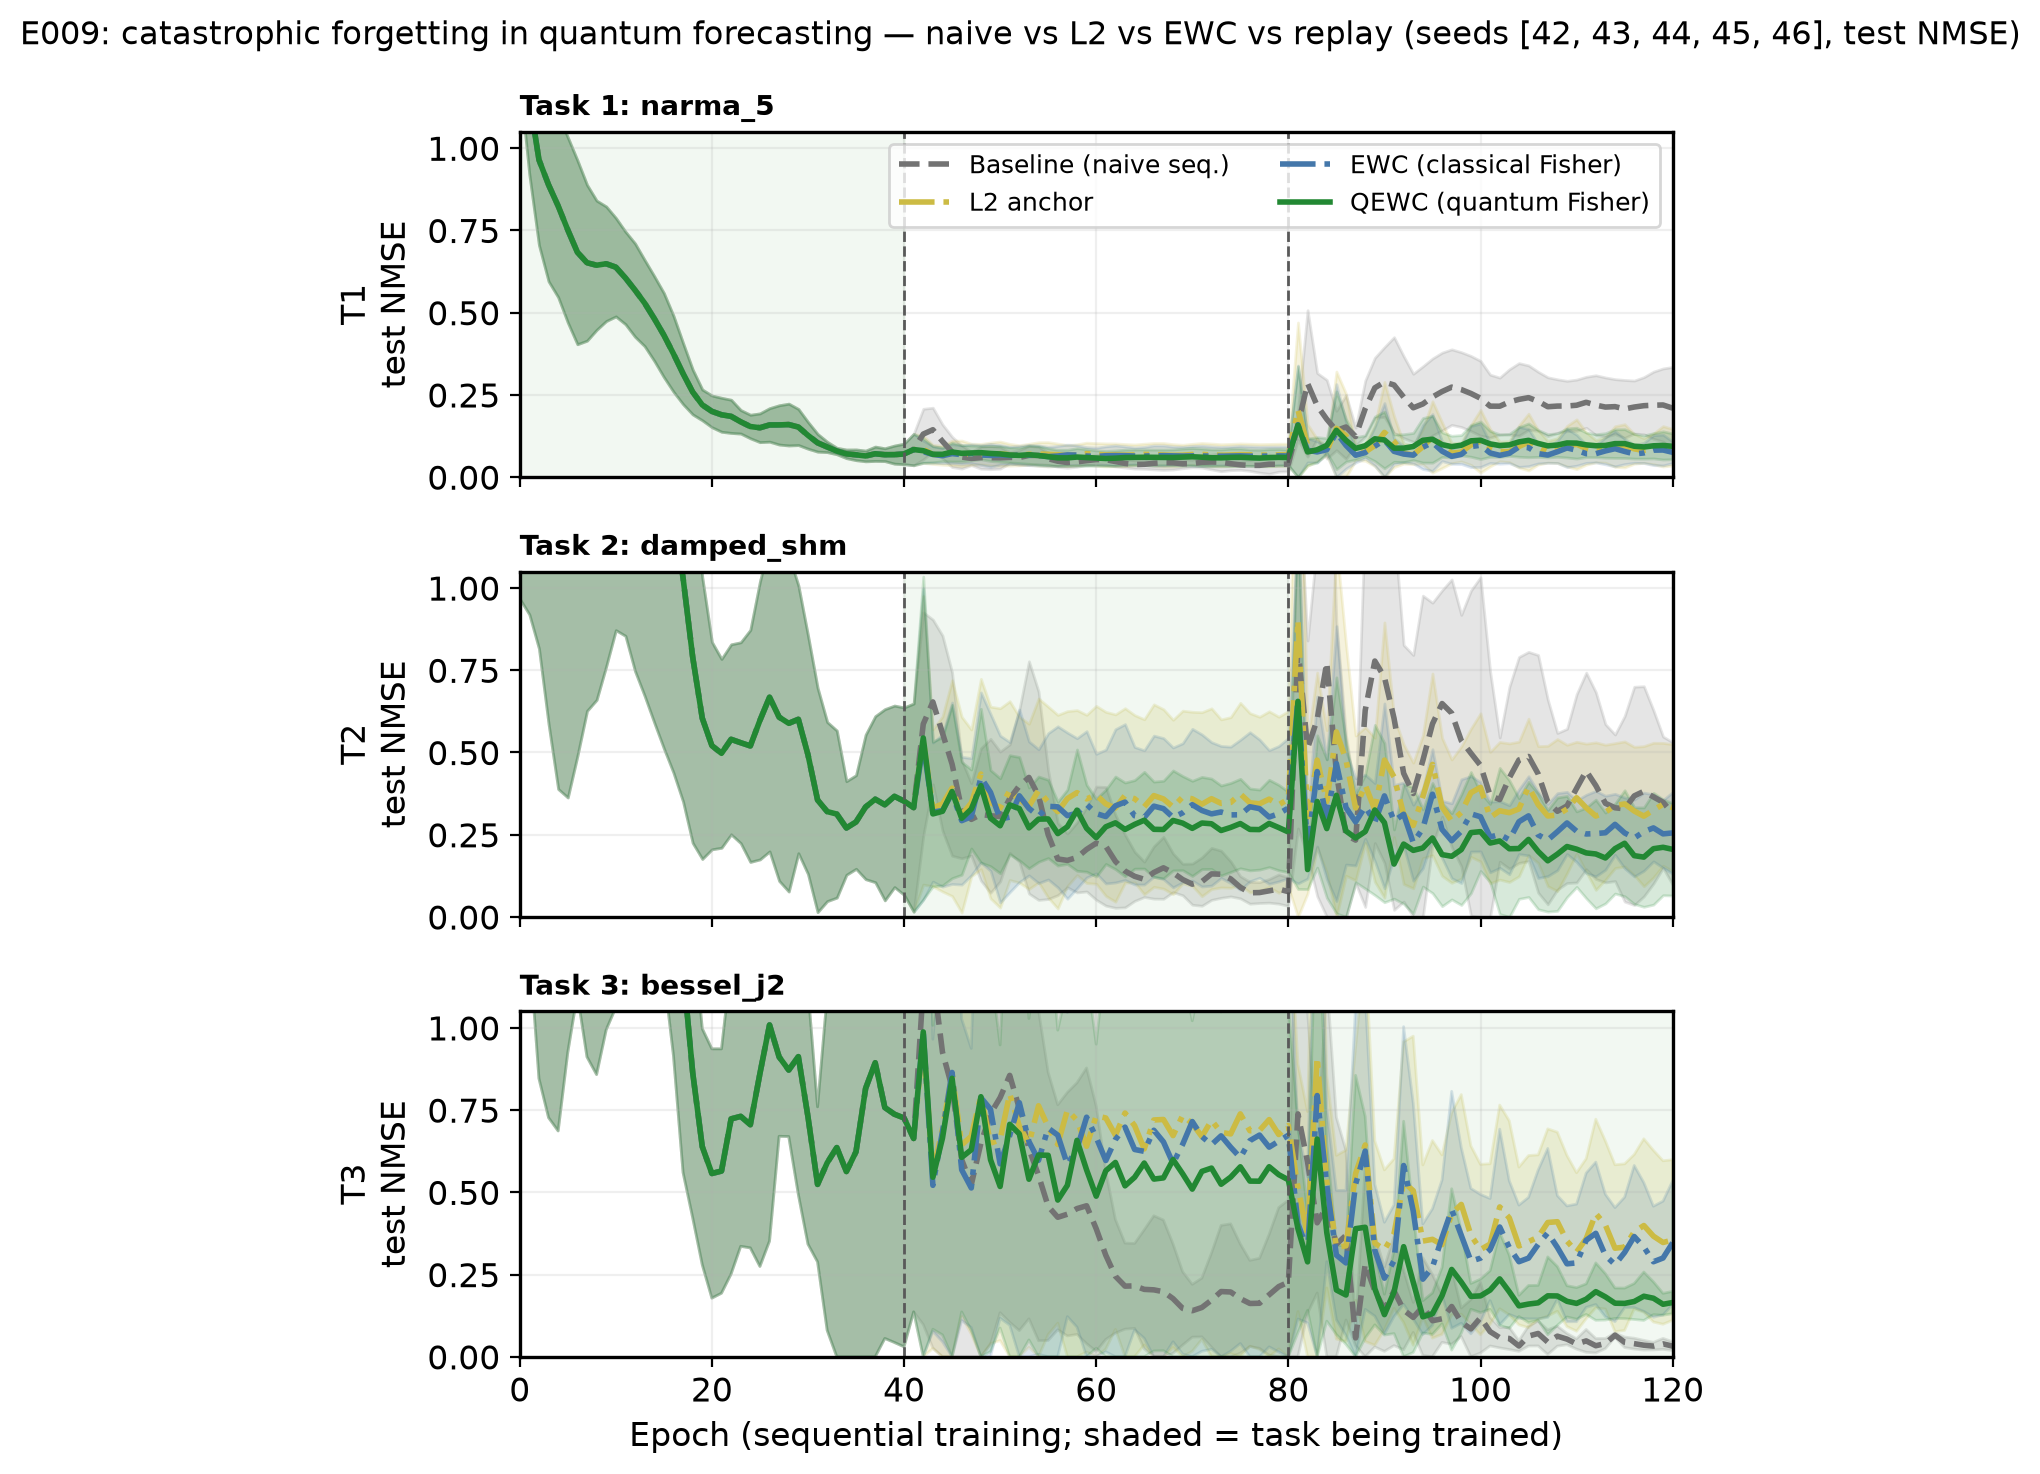
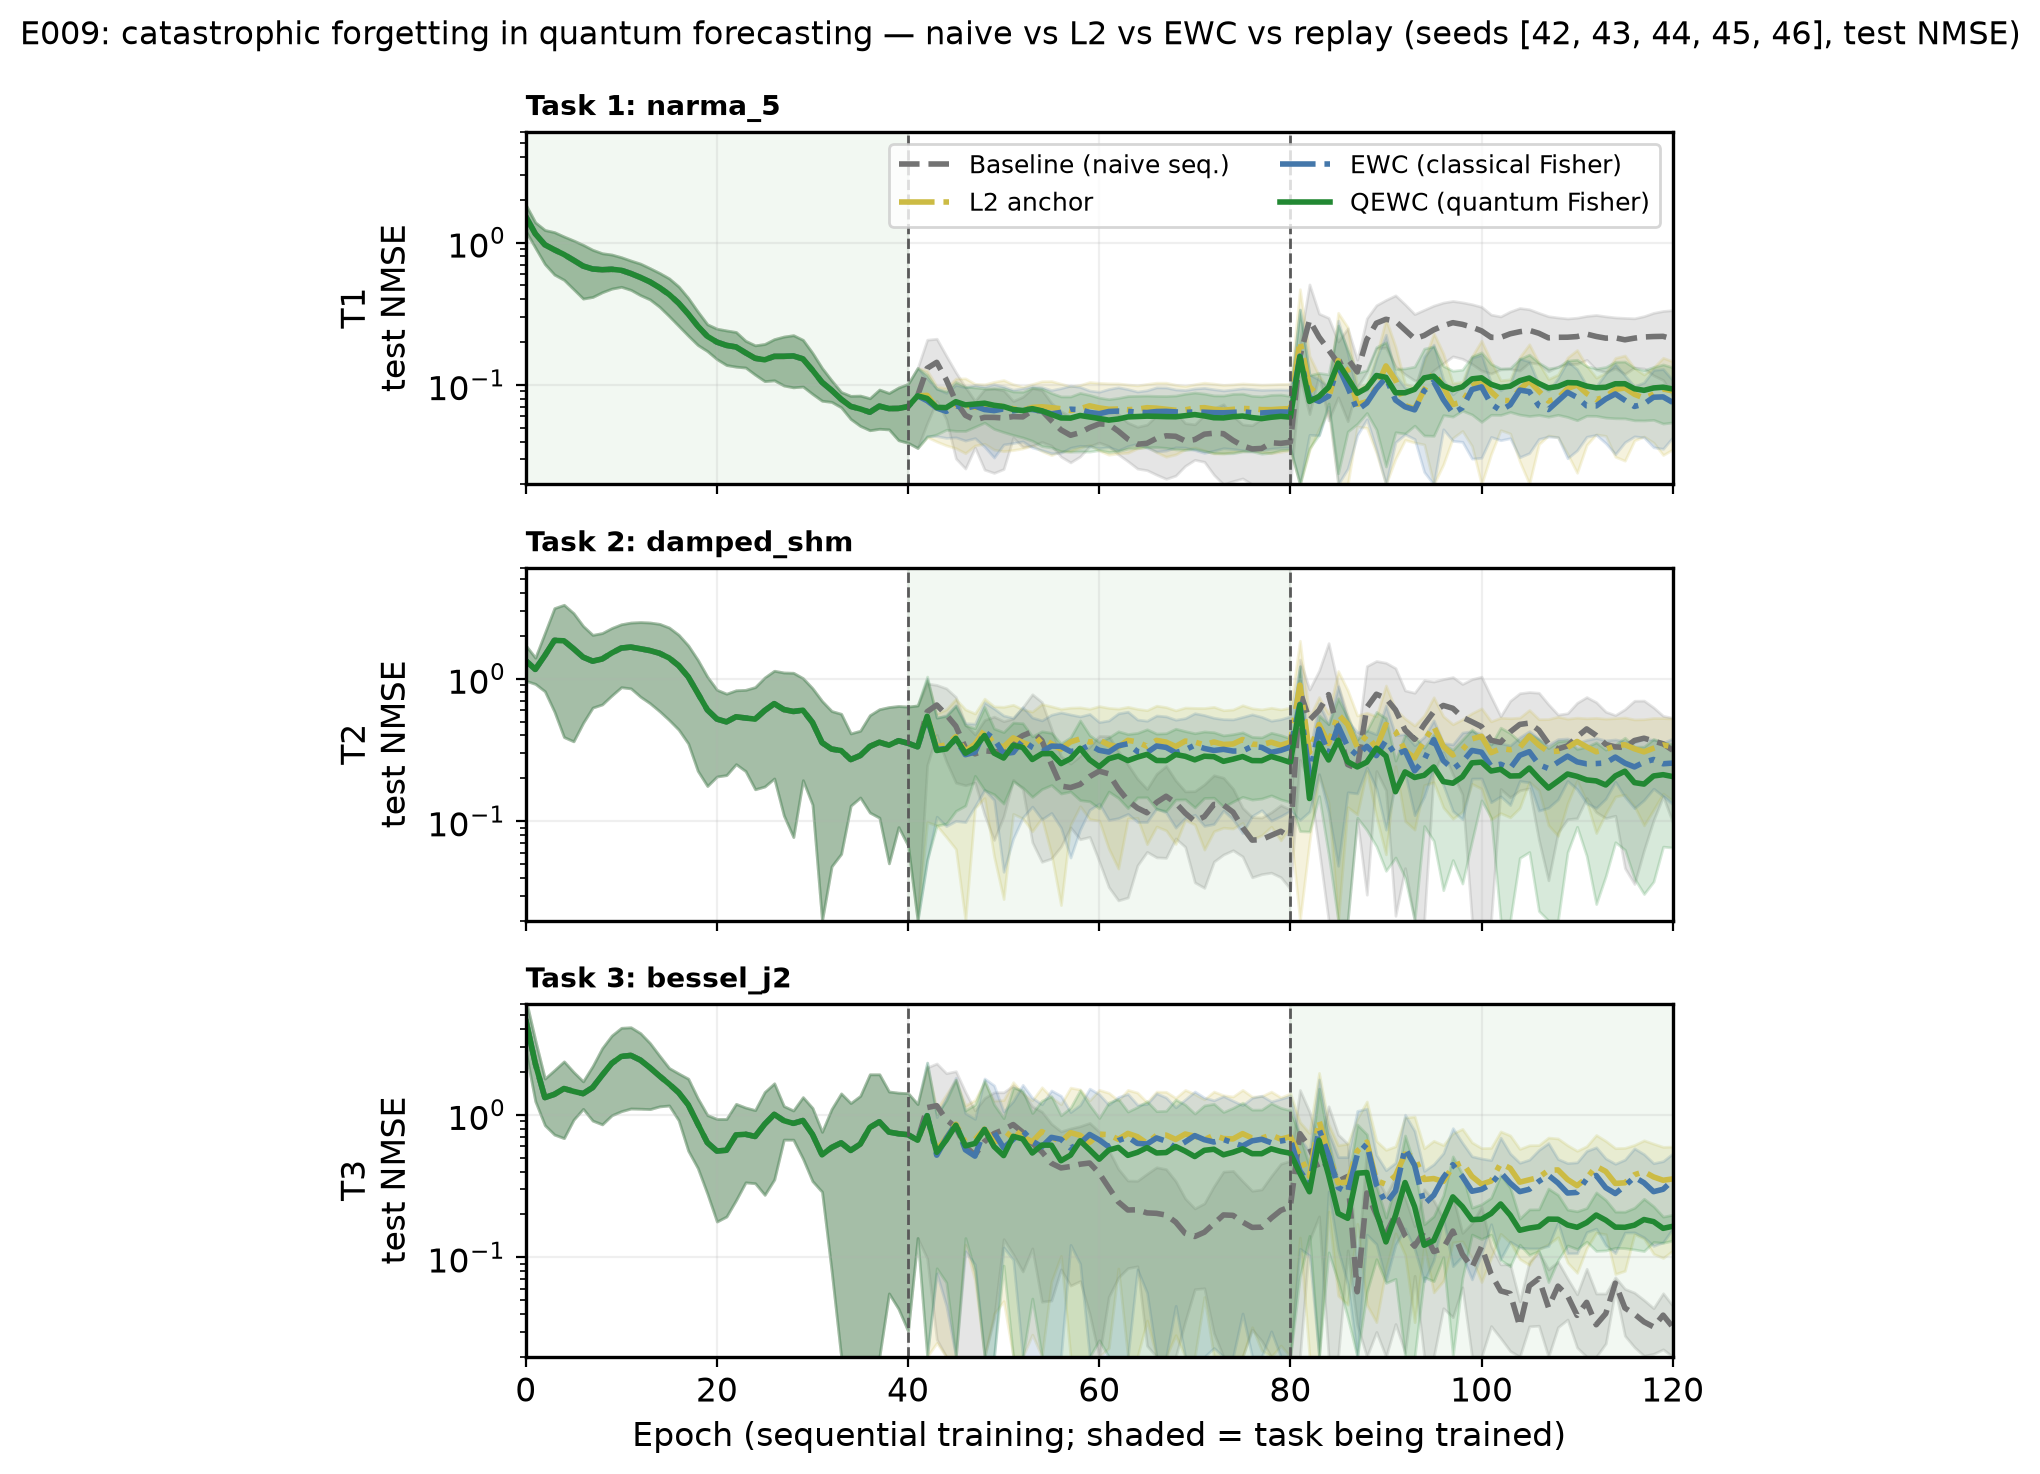
experiment(e009): log-y curves so each task's high-start and drop are visible
Linear y capped at 1.05 hid the untrained NMSE (epoch 0 = 1.3-4.7, above the cap) so the steep
initial drop happened off-frame. Log y-axis shows the full range: each task starts high and drops
when its own phase begins (and rises again = forgetting). Also surfaces the strong positive
forward transfer between the (similar, oscillatory) tasks.

Changed region(s): [[0.1544, 0.0624, 0.8338, 0.6242], [0.1544, 0.6554, 0.8338, 0.9986]]

diff --git a/scripts/e009_plot.py b/scripts/e009_plot.py
@@ -47,13 +47,16 @@ def main() -> None:
             mean = np.array([r["nmse"][task]["mean"] for r in rows])
             sd = np.array([r["nmse"][task]["sd"] for r in rows])
             ax.plot(ep, mean, ls, color=color, lw=2.0, label=label)
-            ax.fill_between(ep, np.clip(mean - sd, 0, None), mean + sd, color=color, alpha=0.18)
+            ax.fill_between(ep, np.clip(mean - sd, 2e-2, None), mean + sd, color=color, alpha=0.18)
         for b in boundaries:
             ax.axvline(b, color="0.35", ls="--", lw=1.0)
         # shade the phase in which this task is actively trained
         ax.axvspan((i - 1) * epochs_per_task, i * epochs_per_task, color="green", alpha=0.05)
         ax.set_xlim(0, total_epochs)
-        ax.set_ylim(0, 1.05)
+        # log y so the high untrained NMSE (~1-5) AND the low trained region (~0.03) are both
+        # visible: each task starts high and drops sharply once its own phase begins.
+        ax.set_yscale("log")
+        ax.set_ylim(2e-2, 6)
         ax.set_ylabel(f"T{i}\ntest NMSE")
         ax.set_title(f"Task {i}: {task}", loc="left", fontsize=10, fontweight="bold")
         ax.grid(alpha=0.2)

diff --git a/scripts/e009_plot_train.py b/scripts/e009_plot_train.py
@@ -46,12 +46,14 @@ def main() -> None:
             mean = np.array([r["train_nmse"][task]["mean"] for r in rows])
             sd = np.array([r["train_nmse"][task]["sd"] for r in rows])
             ax.plot(ep, mean, ls, color=color, lw=2.0, label=label)
-            ax.fill_between(ep, np.clip(mean - sd, 0, None), mean + sd, color=color, alpha=0.18)
+            ax.fill_between(ep, np.clip(mean - sd, 2e-2, None), mean + sd, color=color, alpha=0.18)
         for b in boundaries:
             ax.axvline(b, color="0.35", ls="--", lw=1.0)
         ax.axvspan((i - 1) * epochs_per_task, i * epochs_per_task, color="green", alpha=0.05)
         ax.set_xlim(0, total_epochs)
-        ax.set_ylim(0, 1.05)
+        # log y so the high untrained NMSE and the low trained region are both visible.
+        ax.set_yscale("log")
+        ax.set_ylim(2e-2, 6)
         ax.set_ylabel(f"T{i}\ntrain NMSE")
         ax.set_title(f"Task {i}: {task}", loc="left", fontsize=10, fontweight="bold")
         ax.grid(alpha=0.2)
